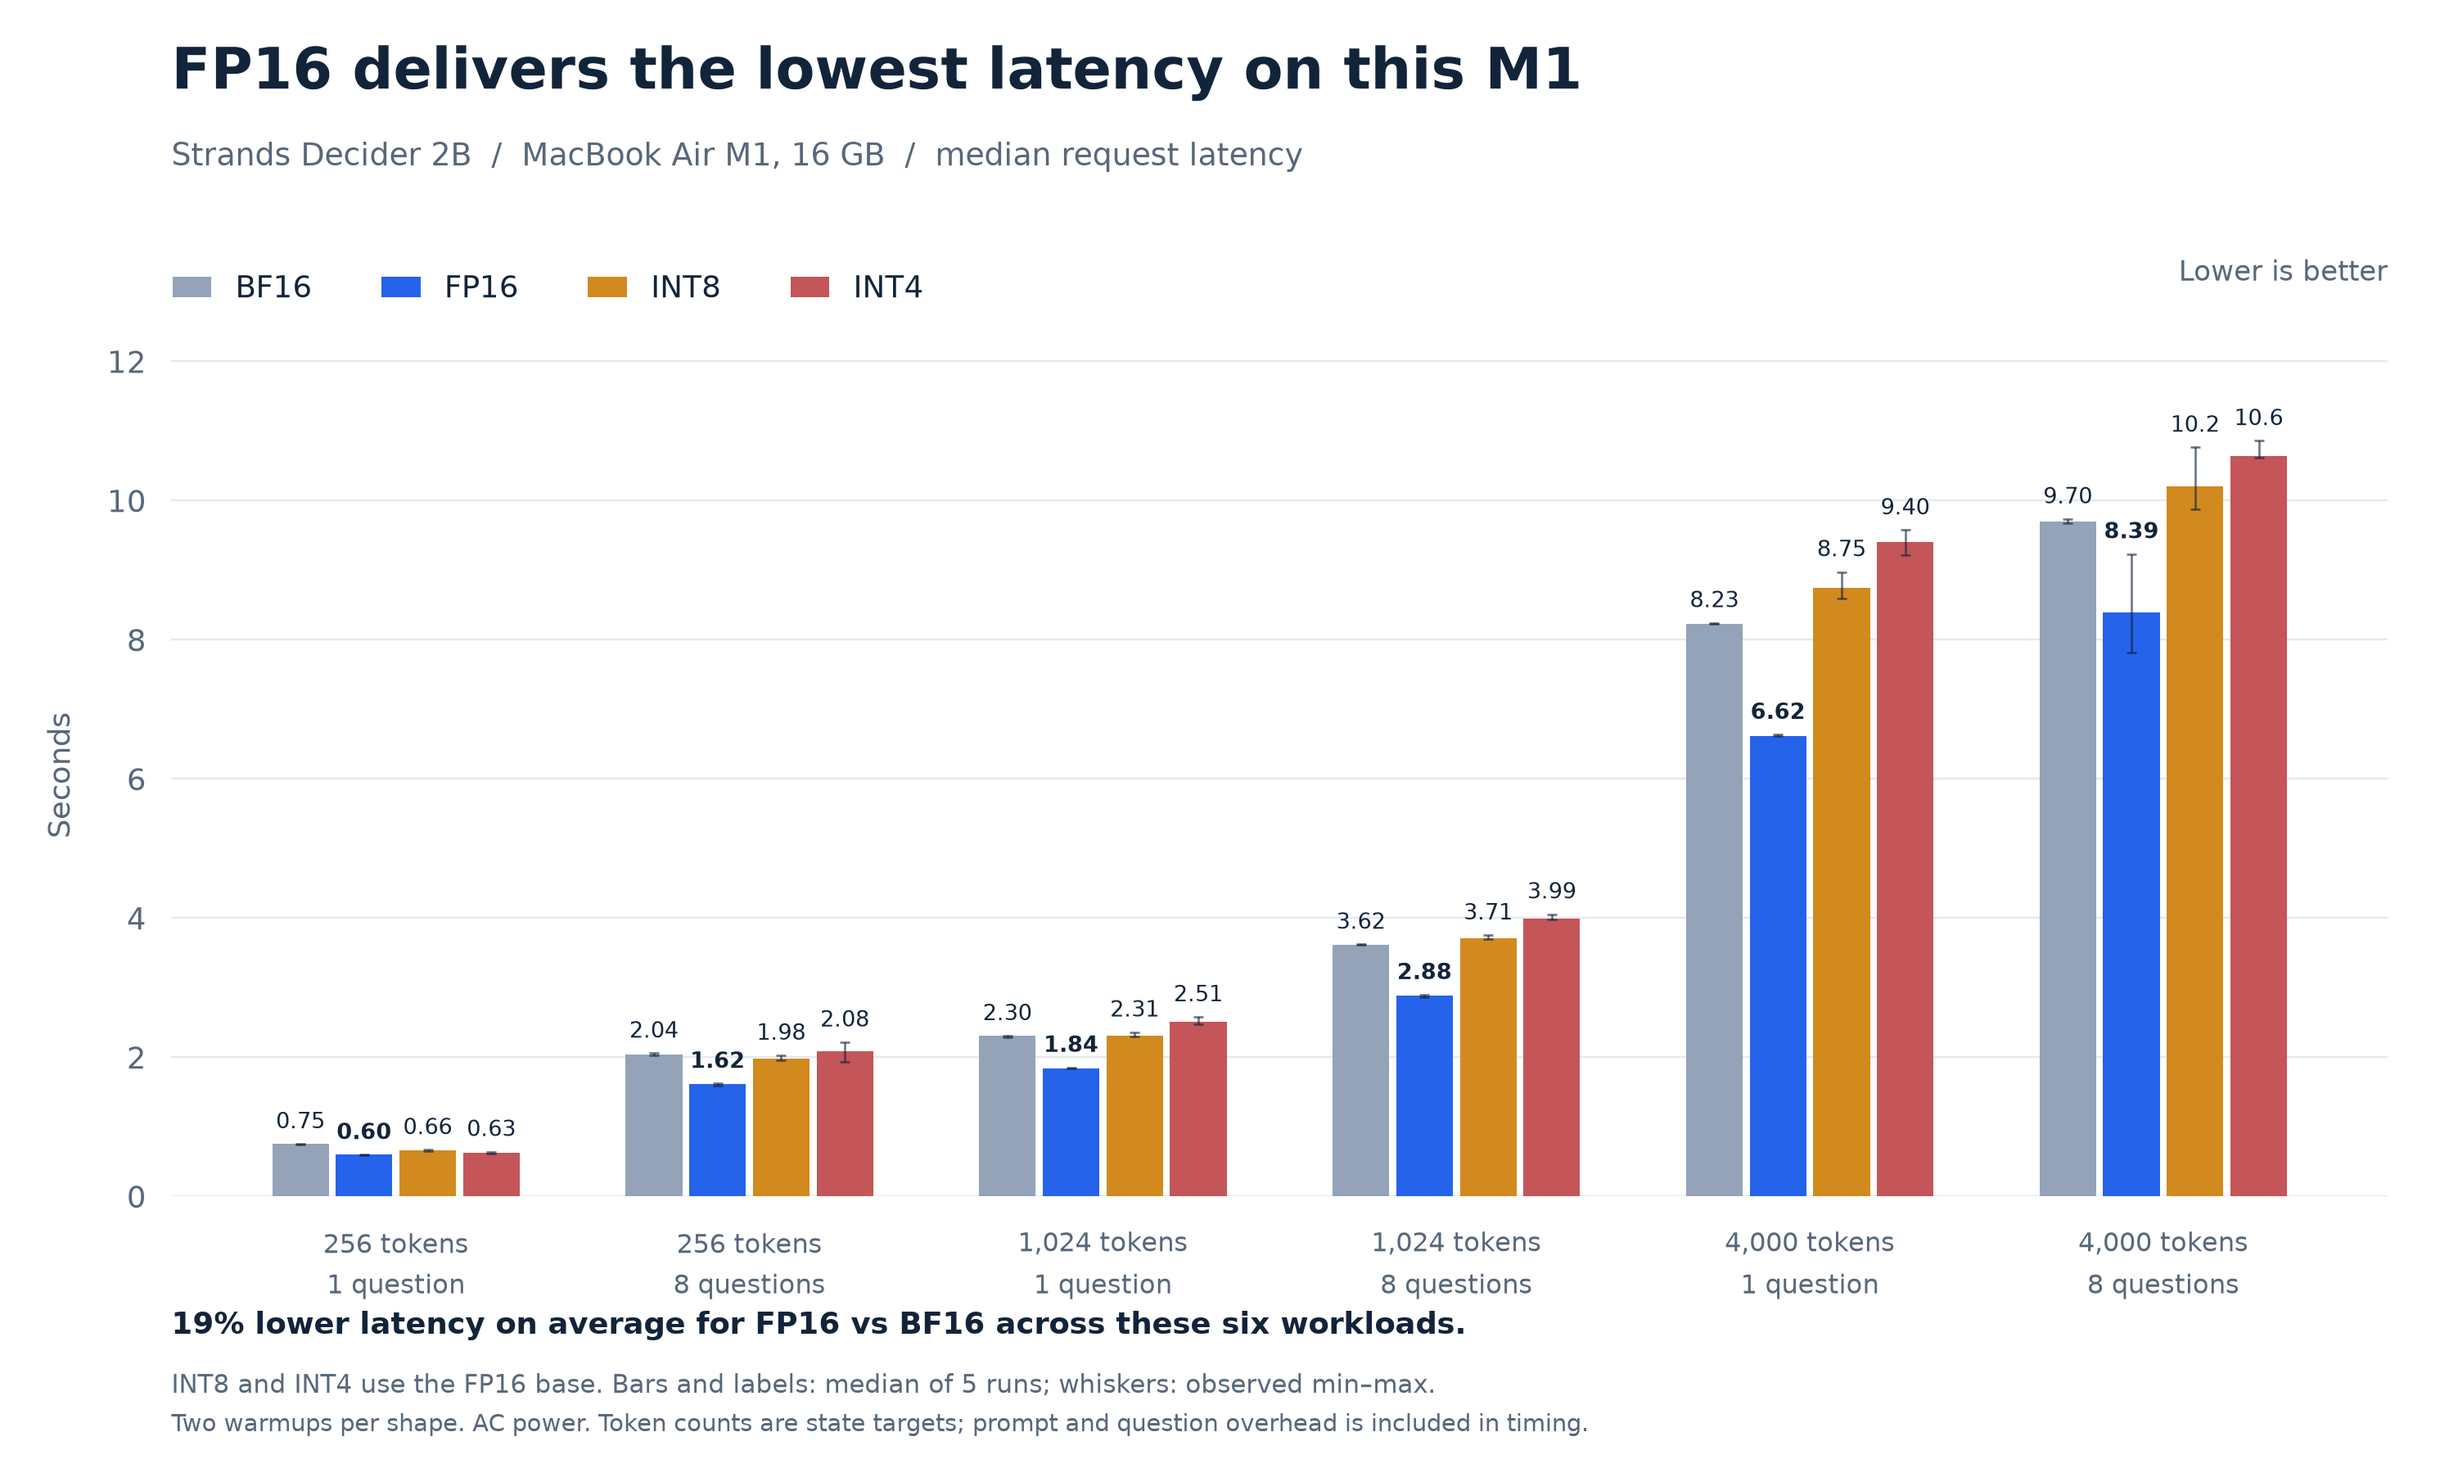
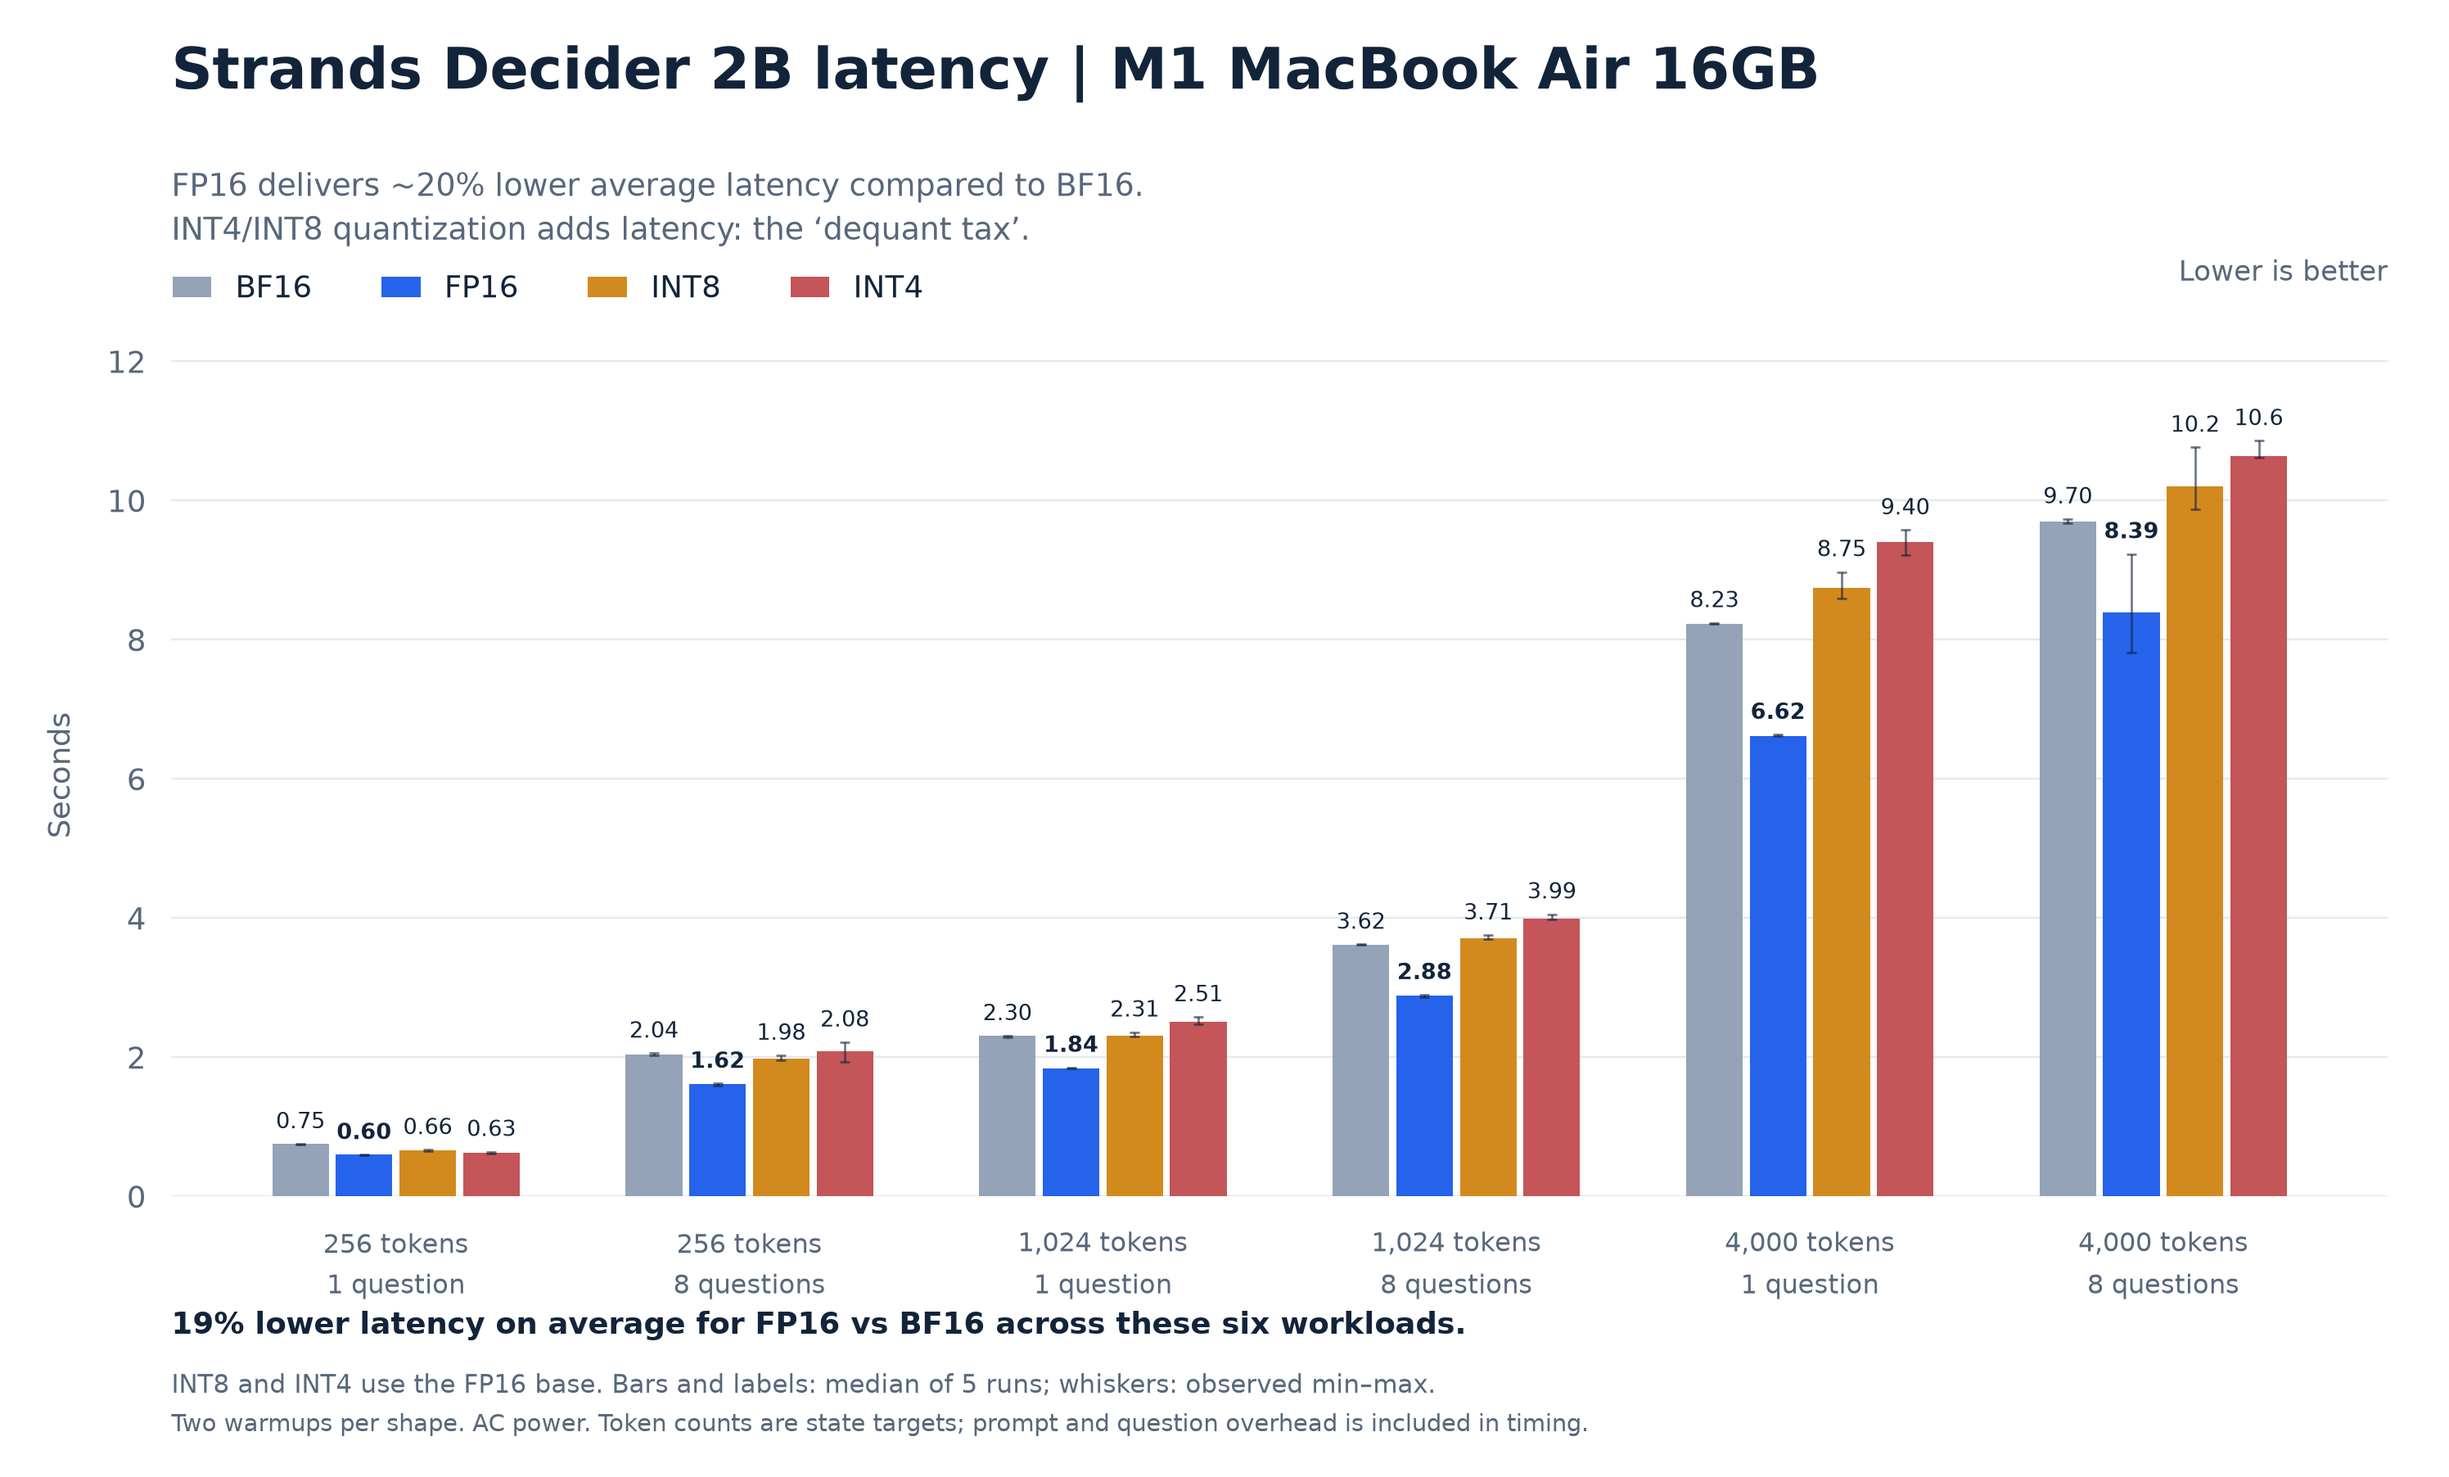
docs: revise M1 latency plot title and takeaway subtitle

Changed region(s): [[0.0622, 0.0931, 0.5284, 0.1863], [0.0622, 0.031, 0.746, 0.0621]]

diff --git a/evaluation/plot_m1_warm.py b/evaluation/plot_m1_warm.py
@@ -76,12 +76,15 @@ reduction = np.mean(
 
 fig, ax = plt.subplots(figsize=(13.6, 8.2))
 fig.subplots_adjust(left=0.07, right=0.975, bottom=0.19, top=0.76)
-fig.text(0.07, 0.94, "FP16 delivers the lowest latency on this M1", fontsize=23, weight="bold")
+fig.text(0.07, 0.94, "Strands Decider 2B latency | M1 MacBook Air 16GB", fontsize=23, weight="bold")
 fig.text(
     0.07,
     0.888,
-    "Strands Decider 2B  /  MacBook Air M1, 16 GB  /  median request latency",
+    "FP16 delivers ~20% lower average latency compared to BF16.\n"
+    "INT4/INT8 quantization adds latency: the ‘dequant tax’.",
     fontsize=12.5,
+    linespacing=1.4,
+    va="top",
     color=MUTED,
 )
 fig.text(0.975, 0.81, "Lower is better", ha="right", fontsize=11, color=MUTED)
